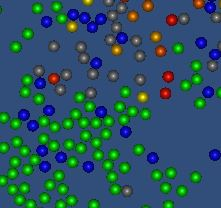
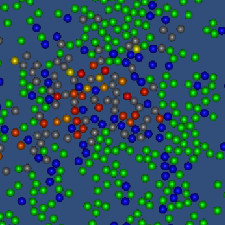
Updates to main page and cancer growth simulation

diff --git a/index.html b/index.html
@@ -46,6 +46,9 @@
             <a class="nav-link js-scroll-trigger" href="#uddannelse">Education</a>
           </li>
           <li class="nav-item">
+            <a class="nav-link js-scroll-trigger" href="#publications">Publications</a>
+          </li>
+          <li class="nav-item">
             <a class="nav-link js-scroll-trigger" href="#erfaring">Experience</a>
           </li>
           <li class="nav-item">
@@ -86,9 +89,17 @@
           </div>
           <!-- <p class="mb-5 text-secondary"> Velkommen til mit personlige website. Her finder du mit CV og links til forskellige ting jeg har lavet.</p> -->
           <p class="mb-5 text-secondary"> Welcome to my personal website. Here you will find my Curriculum Vitae as well as links to some of my other stuff.</p>
-          <p class="mb-2 text-primary">  <a href="epidemi.html"> Link to the epidemic-simulation made for the Science Show at Roskilde University </a></p>   
-           <a href="epidemi.html">  <img class="img-fluid img-profile rounded-circle mb-2" src="img/ScienceShow.png" alt=""> </a>
-          <ul class="list-inline list-social-icons mb-0">
+		<ul class="list-inline mb-0"> 
+			<li class="list-inline-item">
+				<p  style="text-align:center" class="mb-2 text-primary">  <a href="CancerGrowth/index.html"> Cancer growth model</a></p>   
+				<a href="CancerGrowth/index.html">  <img width="250" height="250" class="img-fluid img-profile rounded-circle mb-2" src="img/CancerGrowth.JPG" alt=""> </a>
+			</li> 
+			<li class="list-inline-item">
+				<p  style="text-align:center" class="mb-2 text-primary">  <a href="epidemi.html"> Epidemic-simulation </a></p>   
+				<a href="epidemi.html">  <img width="250" height="250" class="img-fluid img-profile rounded-circle mb-2" src="img/ScienceShow.jpg" alt=""> </a>
+			</li> 
+		</ul>
+        <ul class="list-inline list-social-icons mb-0">
             <li class="list-inline-item">
               <a href="https://www.facebook.com/rasmuskpedersen">
                 <span class="fa-stack fa-lg">
@@ -195,69 +206,91 @@
               <span class="text-primary">August 1998 - June 2008</span>
             </div>
           </div>
-
-
-         <!--  <div class="resume-item d-flex flex-column flex-md-row mb-5">
-            <div class="resume-content mr-auto">
-              <h3 class="mb-0">Web Developer</h3>
-              <div class="subheading mb-3">Intelitec Solutions</div>
-              <p>Capitalize on low hanging fruit to identify a ballpark value added activity to beta test. Override the digital divide with additional clickthroughs from DevOps. Nanotechnology immersion along the information highway will close the loop on focusing solely on the bottom line.</p>
-            </div>
-            <div class="resume-date text-md-right">
-              <span class="text-primary">December 2011 - March 2013</span>
-            </div>
-          </div>
-
-          <div class="resume-item d-flex flex-column flex-md-row mb-5">
-            <div class="resume-content mr-auto">
-              <h3 class="mb-0">Junior Web Designer</h3>
-              <div class="subheading mb-3">Shout! Media Productions</div>
-              <p>Podcasting operational change management inside of workflows to establish a framework. Taking seamless key performance indicators offline to maximise the long tail. Keeping your eye on the ball while performing a deep dive on the start-up mentality to derive convergence on cross-platform integration.</p>
-            </div>
-            <div class="resume-date text-md-right">
-              <span class="text-primary">July 2010 - December 2011</span>
-            </div>
-          </div>
-
-          <div class="resume-item d-flex flex-column flex-md-row">
-            <div class="resume-content mr-auto">
-              <h3 class="mb-0">Web Design Intern</h3>
-              <div class="subheading mb-3">Shout! Media Productions</div>
-              <p>Collaboratively administrate empowered markets via plug-and-play networks. Dynamically procrastinate B2C users after installed base benefits. Dramatically visualize customer directed convergence without revolutionary ROI.</p>
-            </div>
-            <div class="resume-date text-md-right">
-              <span class="text-primary">September 2008 - June 2010</span>
-            </div>
-          </div> -->
-
         </div>
 
       </section>
-
-      <section class="resume-section p-3 p-lg-5 d-flex flex-column" id="erfaring">
+	<section class="resume-section p-3 p-lg-5 d-flex flex-column" id="publications">
         <div class="my-auto">
-          <h2 class="mb-5">Experience</h2>
+			<h2 class="mb-5">Publications</h2>
 
-          <div class="resume-item d-flex flex-column flex-md-row mb-5">
-            <div class="resume-content mr-auto">
-              <h3 class="mb-0">Developer and active part of  Science Show</h3>
-              <div class="subheading mb-3">Roskilde University</div>
-            </div>
-            <div class="resume-date text-md-right">
-              <span class="text-primary">September 2016 - June 2017</span>
-            </div>
-          </div>
-          <div class="resume-item d-flex flex-column flex-md-row mb-5">
-            <div class="resume-content mr-auto">
-              <h3 class="mb-0">Full-time substitute mathematics teacher</h3>
-              <div class="subheading mb-3">Roskilde Gymnasium</div>
-              <div>I had the sole responsibility for the math-education of two first year classes</div>
-            </div>
-            <div class="resume-date text-md-right">
-              <span class="text-primary">September 2014 - June 2015</span>
-            </div>
-          </div>
-           <div class="resume-item d-flex flex-column flex-md-row mb-5">
+			<div class="resume-item d-flex flex-column flex-md-row mb-5">
+				<div class="resume-content mr-auto">
+					<h3 class="mb-0"><a href="https://journals.plos.org/plosone/article/file?id=10.1371/journal.pone.0183620&type=printable">"Mathematical Modelling as a Proof of Concept for MPNs as a Human Inflammation
+Model for Cancer Development"</a> </h3>
+					<div class="subheading mb-3"> <p>Morten Andersen, Zamra Sajid, Rasmus K. Pedersen, Johanne Gudmand-Hoeyer, Christina Ellervik, Vibe Skov, Lasse Kjær, Niels Pallisgaard, Torben A. Kruse, Mads Thomassen, Jesper Troelsen, Hans Carl Hasselbalch, Johnny T. Ottesen</p></div>
+				</div> 
+				<div class="resume-date text-md-right">
+					<span class="text-primary">Published in PLoS One, 2017 12(8) </span>
+				</div>
+			</div>  
+		</div>
+	</section>
+
+	<section class="resume-section p-3 p-lg-5 d-flex flex-column" id="erfaring">
+        <div class="my-auto">
+			<h2 class="mb-5">Experience</h2>
+
+			<div class="resume-item d-flex flex-column flex-md-row mb-5">
+				<div class="resume-content mr-auto">
+					<h3 class="mb-0">Course teacher - "Mathematical modelling and dynamic systems"</h3>
+					<div class="subheading mb-3">Roskilde University</div>
+				</div> 
+				<div class="resume-date text-md-right">
+					<span class="text-primary">Fall 2018 and Fall 2019</span>
+				</div>
+			</div> 
+			<div class="resume-item d-flex flex-column flex-md-row mb-5">
+				<div class="resume-content mr-auto">
+					<h3 class="mb-0">Teaching assistant - BK2</h3>
+					<div class="subheading mb-3">Roskilde University</div>
+				</div> 
+				<div class="resume-date text-md-right">
+					<span class="text-primary">Spring 2017</span>
+				</div>
+			</div> 
+			<div class="resume-item d-flex flex-column flex-md-row mb-5">
+				<div class="resume-content mr-auto">
+					<h3 class="mb-0">Teaching assistant - Calculus</h3>
+					<div class="subheading mb-3">Roskilde University</div>
+				</div> 
+				<div class="resume-date text-md-right">
+					<span class="text-primary">Fall 2016</span>
+				</div>
+			</div> 
+			<div class="resume-item d-flex flex-column flex-md-row mb-5">
+				<div class="resume-content mr-auto">
+					<h3 class="mb-0">Teaching assistant - BK1</h3>
+					<div class="subheading mb-3">Roskilde University</div>
+				</div> 
+				<div class="resume-date text-md-right">
+					<span class="text-primary">Fall 2015</span>
+				</div>
+			</div>
+			<div class="resume-item d-flex flex-column flex-md-row mb-5">
+				<div class="resume-content mr-auto">
+					<h3 class="mb-0">Developer and active part of  Science Show</h3>
+					<div class="subheading mb-3">Roskilde University</div>
+				</div>	
+				<div class="resume-date text-md-right">
+					<span class="text-primary">September 2016 - June 2017</span>
+				</div> 
+			</div>
+			<div class="resume-item d-flex flex-column flex-md-row mb-5">
+				<div class="resume-content mr-auto">
+					<h3 class="mb-0">Full-time substitute mathematics teacher</h3>
+					<div class="subheading mb-3">Roskilde Gymnasium</div>
+					<div>I had the sole responsibility for the math-education of two first year high-school classes</div>
+				</div> 
+				<div class="resume-date text-md-right">
+					<span class="text-primary">September 2014 - June 2015</span>
+				</div>
+				</div> 
+			</div>
+		  
+
+<!--           
+
+<div class="resume-item d-flex flex-column flex-md-row mb-5">
             <div class="resume-content mr-auto">
               <h3 class="mb-0">Cashier </h3>
               <div class="subheading mb-3">Kvickly Holbæk</div>
@@ -265,52 +298,29 @@
             <div class="resume-date text-md-right">
               <span class="text-primary">Oktober 2008 - November 2012</span>
             </div>
-          </div>
-
-<!--           <div class="resume-item d-flex flex-column flex-md-row mb-5">
-            <div class="resume-content mr-auto">
-              <h3 class="mb-0">University of Colorado Boulder</h3>
-              <div class="subheading mb-3">Bachelor of Science</div>
-              <div>Computer Science - Web Development Track</div>
-              <p>GPA: 3.23</p>
-            </div>
-            <div class="resume-date text-md-right">
-              <span class="text-primary">August 2006 - May 2010</span>
-            </div>
-          </div>
-
-          <div class="resume-item d-flex flex-column flex-md-row">
-            <div class="resume-content mr-auto">
-              <h3 class="mb-0">James Buchanan High School</h3>
-              <div class="subheading mb-3">Technology Magnet Program</div>
-              <p>GPA: 3.56</p>
-            </div>
-            <div class="resume-date text-md-right">
-              <span class="text-primary">August 2002 - May 2006</span>
-            </div>
-          </div>
  -->
         </div>
-      </section>
+	</section>
 
-      <section class="resume-section p-3 p-lg-5 d-flex flex-column" id="skills">
+	<section class="resume-section p-3 p-lg-5 d-flex flex-column" id="skills">
         <div class="my-auto">
           <h2 class="mb-5">Competencies</h2>
           <h3 class="mb-2"> IT-Competencies </h3>
           <ul class="mb-2">
             <li> MATLAB - Much experience</li>
             <li> LaTeX - Much experience</li>
-            <li> C# - Some experience</li>
+            <li> Python - Some experience</li>
             <li> Java - Some experience</li>
-            <!-- <li> Python - Cursory experience</li> -->
+            <li> C# - Some experience</li>
             <li> Microsoft Excel - Much experience</li>
+			<li> General web development - Enough to make this website </li>
           </ul>
           <h3 class="mb-2"> Language </h3>
           <ul class="mb-2">
-            <li> Dansk - Native language</li>
-            <li> Engelsk - Second language</li>
-            <li> Tysk - Minimally</li>
-            <li> Fransk - Minimally</li>
+            <li> Danish - Native language</li>
+            <li> English - Second language</li>
+            <li> German - Low-level</li>
+            <li> French - Minimally</li>
           </ul>          
 
           <h3 class="mb-2"> Volunteer work</h3>

diff --git a/CancerGrowth/sketch.js b/CancerGrowth/sketch.js
@@ -48,6 +48,12 @@ function setup() {
 	resetButton.mousePressed(initializeSimulation); // Assign it a function to run
 	resetButton.size(60,40); // Set the size of the button
 	allButtons.push(resetButton); // Add it to the array of all buttons
+	// Pause button
+	pauseButton = createButton('Pause'); // Create the button, and set its text
+	pauseButton.position(10,buttonOffset+buttonDist*7); // Position it
+	pauseButton.mousePressed(pauseSwitch); // Assign it a function to run
+	pauseButton.size(60,40); // Set the size of the button
+	allButtons.push(pauseButton); // Add it to the array of all buttons
 	// Death rate 
 	deathUpButton = createButton('+');
 	deathUpButton.position(10,buttonDist*2+buttonOffset);
@@ -178,8 +184,8 @@ function draw() {
 		text('Maturation time: '+maturationAge,-width/2+xOffset,-height/2+yOffset+textDist*2);
 		text('Max cell age: '+rhoMax,-width/2+xOffset,-height/2+yOffset+textDist*3);
 		text('Update every '+timeScale+ ' frames',-width/2+xOffset,-height/2+yOffset+textDist*4);
-		text('Press p to pause',-width/2+10,-height/2+yOffset+textDist*5+5);
-		text('Press r to reset',-width/2+10,-height/2+yOffset+textDist*6+5);
+		text('Press p to pause',-width/2+xOffset,-height/2+yOffset+textDist*5);
+		text('Press r to reset',-width/2+xOffset,-height/2+yOffset+textDist*6);
 		text('Press h to show/hide controls',-width/2+10,-height/2+yOffset+textDist*7+5);
 		
 		// Also show a legend for the cell colors 
@@ -309,6 +315,11 @@ function updateButtons(){
 			allButtons[b].hide();
 		}
 	}
+}
+
+// Function for pausing/unpausing the simulation
+function pauseSwitch(){
+	simulationRunning = !simulationRunning;
 }
 
 // keyPressed() detects keyboard presses, allowing for easy interactivity.

diff --git a/MathJaxTest.html b/MathJaxTest.html
@@ -1,0 +1,17 @@
+<!DOCTYPE html>
+<html>
+<head>
+  <meta charset="utf-8">
+  <meta name="viewport" content="width=device-width">
+  <title>MathJax example</title>
+  <script type="text/javascript" async
+  src="https://cdnjs.cloudflare.com/ajax/libs/mathjax/2.7.5/latest.js?config=TeX-MML-AM_CHTML" async>
+</script>
+</head>
+<body>
+<p>
+  When \(a \ne 0\), there are two solutions to \(ax^2 + bx + c = 0\) and they are
+  $$x = {-b \pm \sqrt{b^2-4ac} \over 2a}.$$
+</p>
+</body>
+</html>
